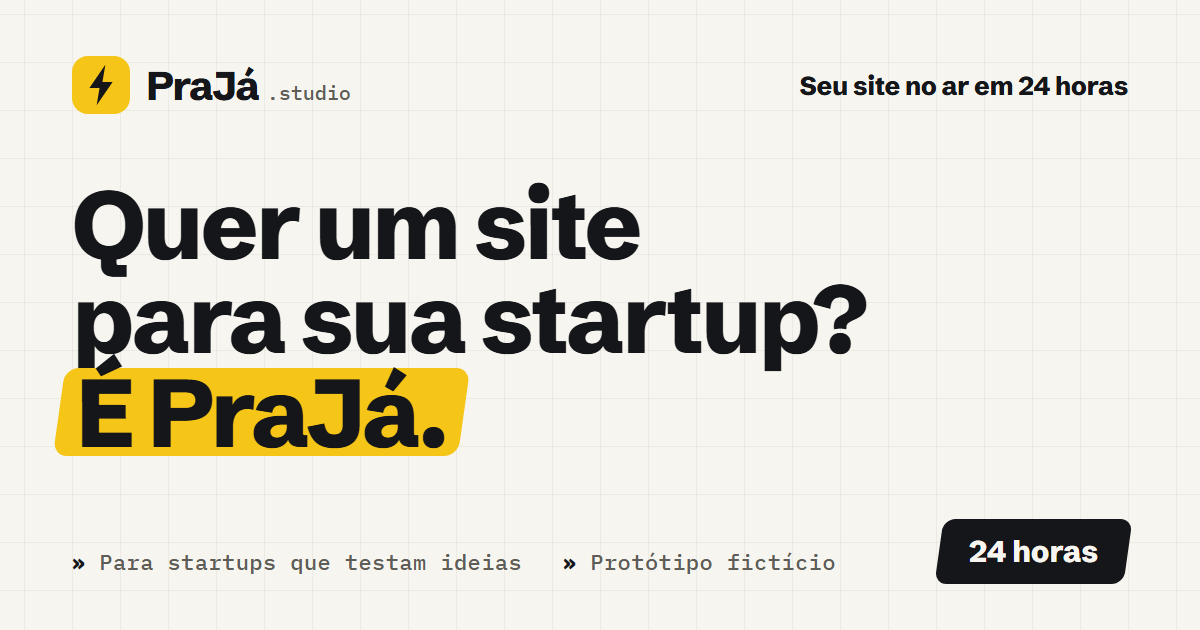
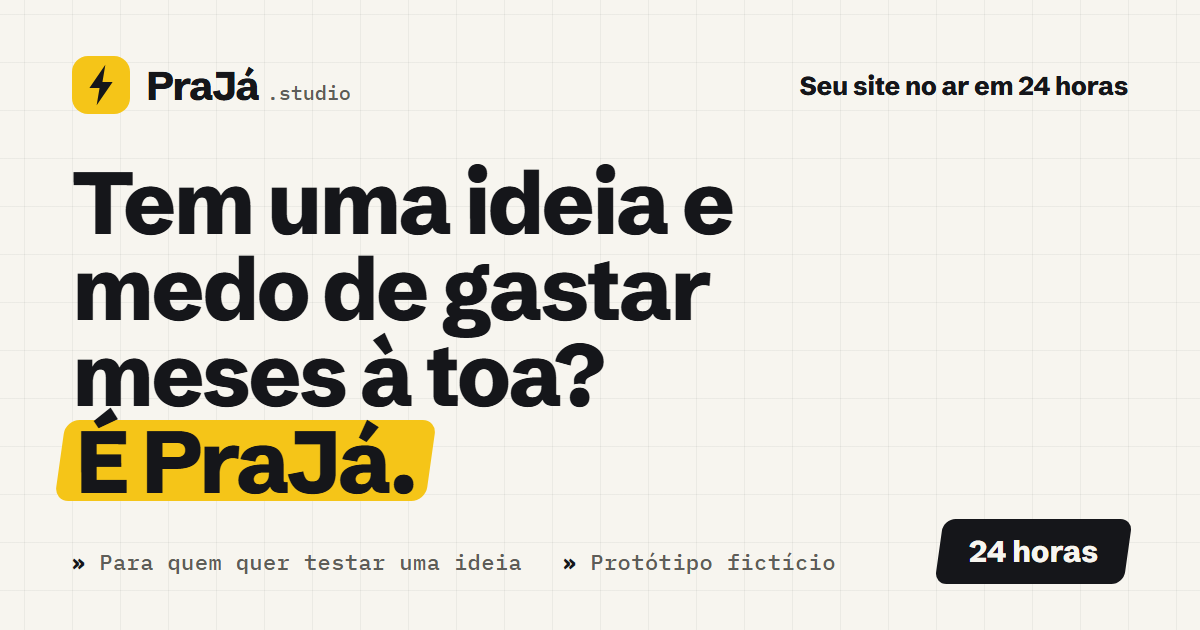
Primeira dobra para quem tem uma ideia e medo de gastar meses à toa
Título e apoio reescritos em promessa.json; hero com uma ação só
(botão 'Testar ao vivo' removido); mockup sem 'validada hoje';
tituloLinhas aceita 3 linhas; tamanhos do h1 ajustados.

Changed region(s): [[0.0308, 0.2413, 0.74, 0.8143], [0.1233, 0.8746, 0.4317, 0.9048]]

diff --git a/index.html b/index.html
@@ -4,18 +4,18 @@
   <meta charset="UTF-8" />
   <meta name="viewport" content="width=device-width, initial-scale=1" />
   <!-- promessa:head -->
-  <title>PraJá.studio — Quer um site para sua startup? É PraJá.</title>
-  <meta name="description" content="Para fundadores de startups que querem testar uma ideia: seu site no ar em 24 horas, pronto para receber tráfego e leads. Protótipo fictício para fins didáticos." />
-  <meta property="og:title" content="PraJá.studio — Quer um site para sua startup? É PraJá." />
-  <meta property="og:description" content="Para fundadores de startups que querem testar uma ideia. Seu site no ar em 24 horas." />
+  <title>PraJá.studio — Tem uma ideia e medo de gastar meses à toa? É PraJá.</title>
+  <meta name="description" content="Sem dev e sem escrever nada: seu site no ar em 24 horas, por preço fechado a partir de R$ 990. Protótipo fictício para fins didáticos." />
+  <meta property="og:title" content="PraJá.studio — Tem uma ideia e medo de gastar meses à toa? É PraJá." />
+  <meta property="og:description" content="Para quem tem uma ideia e medo de gastar meses à toa. Seu site no ar em 24 horas." />
   <meta property="og:type" content="website" />
   <meta property="og:site_name" content="PraJá.studio" />
   <meta property="og:locale" content="pt_BR" />
   <meta property="og:url" content="https://praja-studio.vercel.app/" />
-  <meta property="og:image" content="https://praja-studio.vercel.app/assets/og.png?v=065464c9" />
+  <meta property="og:image" content="https://praja-studio.vercel.app/assets/og.png?v=b443732a" />
   <meta property="og:image:width" content="1200" />
   <meta property="og:image:height" content="630" />
-  <meta property="og:image:alt" content="PraJá.studio: site para startups testarem ideias. Seu site no ar em 24 horas." />
+  <meta property="og:image:alt" content="PraJá.studio: tem uma ideia e medo de gastar meses à toa? Seu site no ar em 24 horas." />
   <!-- /promessa:head -->
   <meta name="twitter:card" content="summary_large_image" />
   <meta name="color-scheme" content="light" />
@@ -160,7 +160,7 @@
     .oneday { display: inline-flex; align-items: center; gap: 10px; padding: 0; margin-bottom: 28px; font-size: 1.02rem; color: var(--muted); }
     .oneday b { color: var(--fg); font-family: var(--font-display); font-size: 1.25rem; letter-spacing: -.01em; }
     .dot { display: none; }
-    .hero h1 { font-size: clamp(2.7rem, 6.3vw, 5.3rem); line-height: .96; letter-spacing: -.03em; }
+    .hero h1 { font-size: clamp(2.7rem, 4.5vw, 4.1rem); line-height: .96; letter-spacing: -.03em; }
     .hero h1 .line { display: block; overflow: hidden; padding-bottom: .06em; }
     .hero h1 .line span { display: inline-block; }
     .hero h1 .line:last-child { padding: 0 .2em .1em; margin: 0 -.2em -.1em; }
@@ -681,7 +681,8 @@
     .hero h1 .line span { --f: clamp(0, calc((var(--hp) - var(--d0, 0)) * 4), 1); color: transparent; -webkit-text-stroke: 1.25px color-mix(in srgb, var(--fg) calc((1 - var(--f)) * 65%), transparent);
       background: linear-gradient(90deg, var(--fg) calc(var(--f) * 104% - 4%), transparent calc(var(--f) * 104%)); -webkit-background-clip: text; background-clip: text; }
     .hero h1 .line:nth-child(2) span { --d0: .08; }
-    .hero h1 .line:nth-child(3) span { --mk: clamp(0, calc((var(--hp) - .2) * 5), 1); color: color-mix(in srgb, var(--on-zap) calc(var(--mk) * 100%), var(--fg)); -webkit-text-stroke: 0; background: none; }
+    .hero h1 .line:nth-child(3):not(:last-child) span { --d0: .14; }
+    .hero h1 .line:last-child span { --mk: clamp(0, calc((var(--hp) - .2) * 5), 1); color: color-mix(in srgb, var(--on-zap) calc(var(--mk) * 100%), var(--fg)); -webkit-text-stroke: 0; background: none; }
     .hero h1 .mark::before { transform: skewX(var(--skew)) scaleX(var(--mk, 1)); transform-origin: left; }
     .hero .lead .w { opacity: calc(.18 + .82 * clamp(0, calc((var(--hp) - .26) * 3.2 * var(--wn, 1) - var(--wi, 0)), 1)); }
     .hero .lead .hl { --hk: clamp(0, calc((var(--hp) - .46) * 6), 1); }
@@ -1136,21 +1137,21 @@
           <!-- promessa:hero -->
           <span class="oneday"><span class="dot"></span> <b>Seu site no ar em 24 horas.</b> Não em semanas.</span>
           <h1>
-            <span class="line"><span>Quer um site</span></span>
-            <span class="line"><span>para sua startup?</span></span>
+            <span class="line"><span>Tem uma ideia e</span></span>
+            <span class="line"><span>medo de gastar</span></span>
+            <span class="line"><span>meses à toa?</span></span>
             <span class="line"><span>
               <span class="underline mark">É PraJá.
               </span>
             </span></span>
           </h1>
-          <p class="lead">Para fundadores de startups que querem testar uma ideia: <span class="hl">seu site no ar em 24 horas</span>, pronto para receber tráfego e leads. Precisa saber se alguém quer comprar? Comece hoje e valide amanhã.</p>
+          <p class="lead">Sem dev e sem escrever nada: <span class="hl">seu site no ar em 24 horas</span>, por preço fechado a partir de R$ 990, pronto para você mostrar a ideia e ver quem se interessa.</p>
           <!-- /promessa:hero -->
           <div class="hero-cta">
             <a class="btn btn-primary js-wa" href="#">
               <svg viewBox="0 0 24 24" aria-hidden="true"><path d="M20.5 3.5A11.9 11.9 0 0 0 12 0C5.4 0 0 5.4 0 12c0 2.1.6 4.2 1.6 6L0 24l6.2-1.6A12 12 0 0 0 12 24c6.6 0 12-5.4 12-12 0-3.2-1.2-6.2-3.5-8.5ZM12 22a10 10 0 0 1-5.1-1.4l-.4-.2-3.7 1 1-3.6-.2-.4A10 10 0 1 1 12 22Zm5.5-7.5c-.3-.1-1.8-.9-2-1-.3-.1-.5-.1-.7.1l-1 1.2c-.2.2-.4.2-.7.1a8 8 0 0 1-4-3.5c-.3-.5.3-.5.9-1.6.1-.2 0-.4 0-.5l-.9-2.2c-.2-.6-.5-.5-.7-.5h-.6c-.2 0-.5.1-.8.4-.3.3-1 1-1 2.5s1.1 2.9 1.2 3.1c.1.2 2.1 3.2 5.1 4.5 1.9.8 2.6.9 3.6.7.6-.1 1.8-.7 2-1.4.3-.7.3-1.3.2-1.4-.1-.1-.3-.2-.6-.3Z"/></svg>
               Pedir meu site em 24 horas
             </a>
-            <a class="btn btn-ghost" href="#demo">Testar ao vivo <span class="arrow">→</span></a>
           </div>
           <div class="hero-trust">
             <span><b>»</b> Sem reuniões longas &nbsp; <b>»</b> Preço fechado &nbsp; <b>»</b> Entrega em 24h</span>
@@ -1167,7 +1168,7 @@
             <div class="canvas">
               <div class="m-nav blk on" data-step="1"><div class="m-logo"></div><div class="m-links"><i></i><i></i><i></i></div></div>
               <div class="blk on" data-step="2">
-                <div class="m-title">Sua ideia,<br><span class="grad">validada hoje.</span></div>
+                <div class="m-title">Sua ideia,<br><span class="grad">no ar em 24h.</span></div>
                 <div class="m-sub"></div><div class="m-sub s2"></div>
               </div>
               <div class="m-btn blk on" data-step="3"></div>
@@ -1792,7 +1793,7 @@
   <div class="build-hud" id="hud" aria-hidden="true"><span id="hudLabel">Montando</span><i><u></u></i><b id="hudPct">0%</b></div>
 
   <div class="sticky-cta" id="stickyCta">
-    <!-- promessa:sticky --><span><b>Seu site no ar em 24 horas</b><small>Para startups que testam ideias</small></span><!-- /promessa:sticky -->
+    <!-- promessa:sticky --><span><b>Seu site no ar em 24 horas</b><small>Para quem quer testar uma ideia</small></span><!-- /promessa:sticky -->
     <a class="btn btn-primary js-wa" href="#">WhatsApp</a>
   </div>
 

diff --git a/assets/og.html b/assets/og.html
@@ -17,7 +17,7 @@
   .top em { font-style: normal; font-family: "IBM Plex Mono", monospace; font-weight: 500; font-size: 20px; letter-spacing: 0; color: var(--muted); margin-left: -8px; padding-top: 14px; }
   .chip { position: absolute; right: 72px; top: 70px; display: flex; align-items: center; font-weight: 800; font-size: 26px; color: var(--fg); letter-spacing: -.01em; }
   .chip i { display: none; }
-  h1 { position: absolute; left: 72px; top: 178px; font-weight: 800; font-size: 96px; line-height: .98; letter-spacing: -.03em; }
+  h1 { position: absolute; left: 72px; top: 160px; font-weight: 800; font-size: 88px; line-height: .98; letter-spacing: -.03em; }
   h1 .mark { position: relative; display: inline-block; z-index: 0; color: var(--fg); padding: 0 .04em; }
   h1 .mark::before { content: ""; position: absolute; inset: .02em -.14em .04em; background: var(--zap); transform: skewX(-8deg); border-radius: 14px; z-index: -1; }
   .foot { position: absolute; left: 72px; bottom: 54px; font-family: "IBM Plex Mono", monospace; font-weight: 500; font-size: 22px; color: var(--muted); letter-spacing: .02em; }
@@ -33,8 +33,8 @@
     <span>PraJá</span><em>.studio</em>
   </div>
   <!-- promessa:chip --><div class="chip"><i></i>Seu site no ar em 24 horas</div><!-- /promessa:chip -->
-  <!-- promessa:titulo --><h1>Quer um site<br>para sua startup?<br><span class="mark">É PraJá.</span></h1><!-- /promessa:titulo -->
-  <!-- promessa:rodape --><div class="foot"><b>»</b> Para startups que testam ideias &nbsp; <b>»</b> Protótipo fictício</div><!-- /promessa:rodape -->
+  <!-- promessa:titulo --><h1>Tem uma ideia e<br>medo de gastar<br>meses à toa?<br><span class="mark">É PraJá.</span></h1><!-- /promessa:titulo -->
+  <!-- promessa:rodape --><div class="foot"><b>»</b> Para quem quer testar uma ideia &nbsp; <b>»</b> Protótipo fictício</div><!-- /promessa:rodape -->
   <div class="tag">24 horas</div>
 </body>
 </html>

diff --git a/README.md b/README.md
@@ -3,14 +3,14 @@
 # PraJá.studio
 
 <!-- promessa:topo -->
-**Quer um site para sua startup? É PraJá.**
+**Tem uma ideia e medo de gastar meses à toa? É PraJá.**
 
 Landing page de um estúdio fictício que coloca o site de startups no ar em **24 horas**.
 Projeto de estudo feito com HTML, CSS e JavaScript puros, em um único arquivo.
 
 [**Ver demo ao vivo →**](https://praja-studio.vercel.app/)
 
-![Prévia da página inicial da PraJá.studio](assets/preview.png?v=26db3a0b)
+![Prévia da página inicial da PraJá.studio](assets/preview.png?v=d00d3c7e)
 <!-- /promessa:topo -->
 
 </div>
